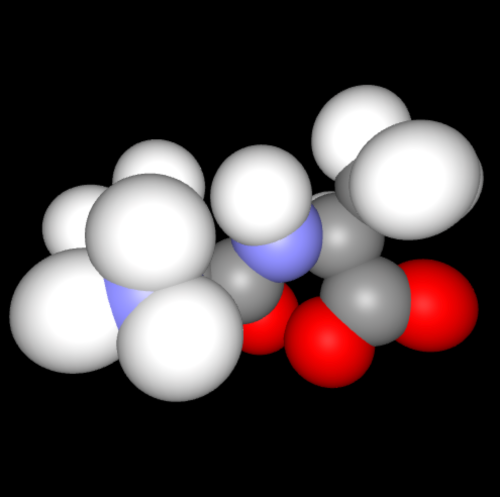
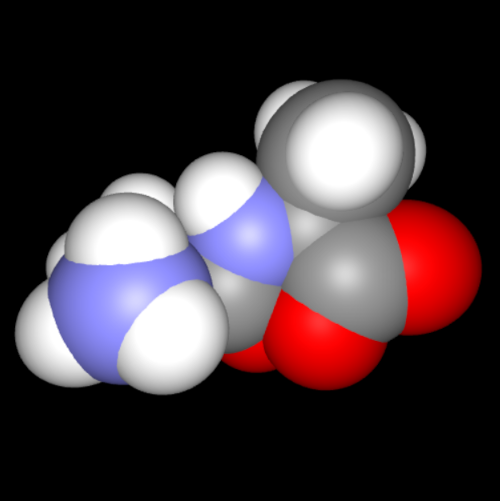
Update README, tutorials, and docs for BiochemicalAlgorithms v0.7

diff --git a/docs/src/tutorials/getting_started.md b/docs/src/tutorials/getting_started.md
@@ -10,10 +10,8 @@ using BiochemicalAlgorithms, BiochemicalVisualization
 sys = load_pdb(ball_data_path("../test/data/AlaAla.pdb"))
 
 # Prepare molecule
-fdb = FragmentDB()
-normalize_names!(sys, fdb)
-reconstruct_fragments!(sys, fdb)
-build_bonds!(sys, fdb)
+infer_topology!(sys)
+assign_radii!(sys)
 ```
 
 # Available representations
@@ -46,8 +44,8 @@ Stick representation of a simple molecule
 van_der_waals(sys)
 ```
 
-![Van-der-waals representation of a simple molecule with unit radii](gfx/van-der-waals.png)
+![Van-der-waals representation of a simple molecule](gfx/van-der-waals.png)
 
-Van-der-waals representation of a simple molecule with unit radii
+Van-der-waals representation of a simple molecule
 
 Please note that the sphere radii are currently not automatically assigned by atom type but rather read from the corresponding `Atom` object (i.e., from its `radius` field).

diff --git a/README.md b/README.md
@@ -21,10 +21,8 @@ using BiochemicalAlgorithms, BiochemicalVisualization
 sys = load_pdb(ball_data_path("../test/data/AlaAla.pdb"))
 
 # Prepare molecule
-fdb = FragmentDB()
-normalize_names!(sys, fdb)
-reconstruct_fragments!(sys, fdb)
-build_bonds!(sys, fdb)
+infer_topology!(sys)
+assign_radii!(sys)
 
 # Visualize using ball-and-stick representation
 ball_and_stick(sys)
